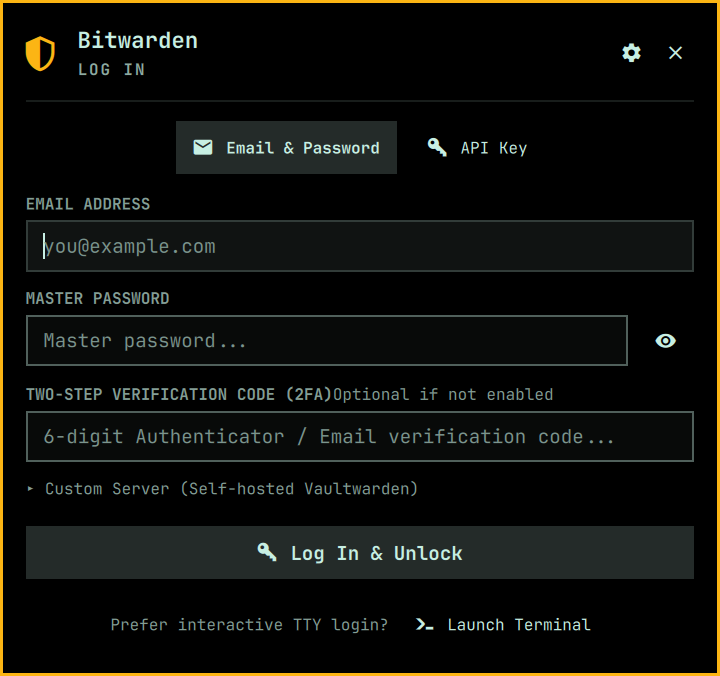
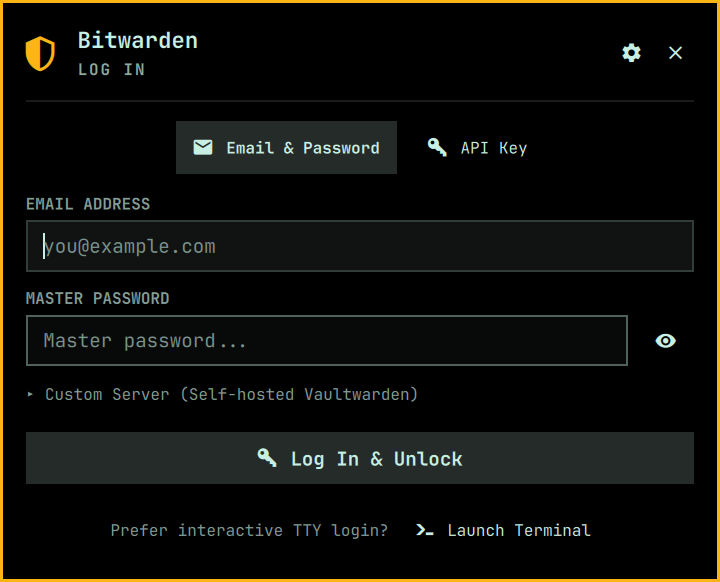
fix: reveal MFA prompt after credential login
Recognize Bitwarden CLI 2026.2.0 standalone code-required challenges and present verification as a second stage.

Fixes #2

diff --git a/Panel.qml b/Panel.qml
@@ -672,6 +672,18 @@ Panel {
     if (loginProc.running) loginProc.running = false
   }
 
+  function resetEmailLoginSecondFactor() {
+    show2faField = false
+    login2faCode = ""
+  }
+
+  function emailLoginButtonText() {
+    if (logoutCleanupFailed) return "Retry Logout Cleanup"
+    if (logoutPending) return "Finishing logout..."
+    if (isLoading) return show2faField ? "Verifying..." : "Logging in..."
+    return show2faField ? "Verify & Unlock" : "Log In & Unlock"
+  }
+
   function prepareEmailLogin() {
     if (logoutPending || !opened || status !== "unauthenticated" || loginMethod !== "email" || isLoading) return
     var email = String(loginEmail || "").trim()
@@ -723,6 +735,7 @@ Panel {
     loginClientId = ""
     loginClientSecret = ""
     login2faCode = ""
+    show2faField = false
     pendingUnlockPassword = ""
     pendingUnlockFrom = ""
     authPasswordWriteValue = ""
@@ -786,6 +799,11 @@ Panel {
         errorMessage = "Master password is required"
         return
       }
+      if (show2faField && !String(login2faCode || "").trim()) {
+        errorMessage = "Two-step verification code is required"
+        Qt.callLater(function() { code2faField.forceActiveFocus() })
+        return
+      }
 
       isLoading = true
       var signature = emailLoginSignature()
@@ -842,10 +860,12 @@ Panel {
     var out = String(stdoutText || "").trim()
     var err = String(stderrText || "").trim()
 
-    var combined = (err + " " + out).toLowerCase()
-    if (combined.indexOf("two-step") !== -1 || combined.indexOf("verification") !== -1 || combined.indexOf("twofactor") !== -1 || combined.indexOf("2fa") !== -1 || combined.indexOf("invalid_grant") !== -1 || combined.indexOf("code") !== -1) {
+    if (Model.loginNeedsSecondFactor(out, err)) {
+      var secondFactorWasVisible = show2faField
       show2faField = true
-      errorMessage = "Two-step verification code required or incorrect. Please enter your 6-digit code below."
+      errorMessage = secondFactorWasVisible
+        ? "That two-step verification code was not accepted. Please try again."
+        : "Two-step verification is required. Enter your code to continue."
       Qt.callLater(function() { code2faField.forceActiveFocus() })
       return
     }
@@ -2053,6 +2073,7 @@ Panel {
     loginClientId = ""
     loginClientSecret = ""
     login2faCode = ""
+    show2faField = false
     isUnlocking = false
     unlockSubmitted = false
     if (!s) {
@@ -2209,6 +2230,7 @@ Panel {
     sendFormPassword = ""
     loginPassword = ""
     login2faCode = ""
+    show2faField = false
     loginClientId = ""
     loginClientSecret = ""
     pinEntry = ""
@@ -4345,7 +4367,9 @@ Panel {
           && root.currentScreen !== "pin"
           && root.currentScreen !== "fingerprint")
         ? keyCatcher
-        : (root.status === "unauthenticated" ? emailField : passField))
+        : (root.status === "unauthenticated"
+          ? (root.show2faField ? code2faField : emailField)
+          : passField))
     contentWidth: panel.fittedContentWidth(Style.space(450))
     contentHeight: panel.fittedContentHeight(mainColumn.implicitHeight, Style.space(640) + root.filterDrawerHeight)
 
@@ -6147,6 +6171,7 @@ Panel {
               fontSize: Style.font.caption
               onClicked: {
                 root.invalidateEmailLoginPrewarm()
+                root.resetEmailLoginSecondFactor()
                 root.loginMethod = "email"
               }
             }
@@ -6159,6 +6184,7 @@ Panel {
               fontSize: Style.font.caption
               onClicked: {
                 root.invalidateEmailLoginPrewarm()
+                root.resetEmailLoginSecondFactor()
                 root.loginMethod = "apikey"
               }
             }
@@ -6171,6 +6197,7 @@ Panel {
             spacing: Style.space(10)
 
             Column {
+              visible: !root.show2faField
               width: parent.width
               spacing: Style.space(3)
               Text { textFormat: Text.PlainText; text: "EMAIL ADDRESS"; color: root.dim; font.family: root.fontFamily; font.pixelSize: Style.font.caption; font.bold: true }
@@ -6179,8 +6206,10 @@ Panel {
                 width: parent.width
                 placeholderText: "you@example.com"
                 text: root.loginEmail
-                onTextChanged: {
+                onTextChanged: root.loginEmail = text
+                onTextEdited: {
                   root.loginEmail = text
+                  root.resetEmailLoginSecondFactor()
                   root.invalidateEmailLoginPrewarm()
                 }
                 onAccepted: loginPassField.forceActiveFocus()
@@ -6188,6 +6217,7 @@ Panel {
             }
 
             Column {
+              visible: !root.show2faField
               width: parent.width
               spacing: Style.space(3)
               Text { textFormat: Text.PlainText; text: "MASTER PASSWORD"; color: root.dim; font.family: root.fontFamily; font.pixelSize: Style.font.caption; font.bold: true }
@@ -6201,10 +6231,17 @@ Panel {
                   password: !eyeBtnLogin.revealed
                   text: root.loginPassword
                   onTextChanged: root.loginPassword = text
+                  onTextEdited: {
+                    root.loginPassword = text
+                    if (root.show2faField) {
+                      root.resetEmailLoginSecondFactor()
+                      root.invalidateEmailLoginPrewarm()
+                    }
+                  }
                   onActiveFocusChanged: {
                     if (activeFocus) root.prepareEmailLogin()
                   }
-                  onAccepted: code2faField.forceActiveFocus()
+                  onAccepted: root.show2faField ? code2faField.forceActiveFocus() : root.submitLogin()
                 }
                 Button {
                   id: eyeBtnLogin
@@ -6217,29 +6254,19 @@ Panel {
               }
             }
 
-            // 2FA Field (Always visible)
+            // Bitwarden tells us whether this account needs a second factor.
             Column {
+              visible: root.show2faField
               width: parent.width
               spacing: Style.space(3)
 
-              Row {
-                width: parent.width
-                Text {
-                  textFormat: Text.PlainText
-                  text: "TWO-STEP VERIFICATION CODE (2FA)"
-                  color: root.show2faField ? Color.accent : root.dim
-                  font.family: root.fontFamily
-                  font.pixelSize: Style.font.caption
-                  font.bold: true
-                }
-                Item { Layout.fillWidth: true }
-                Text {
-                  textFormat: Text.PlainText
-                  text: "Optional if not enabled"
-                  color: root.dim
-                  font.family: root.fontFamily
-                  font.pixelSize: Style.font.caption
-                }
+              Text {
+                textFormat: Text.PlainText
+                text: "TWO-STEP VERIFICATION CODE (2FA)"
+                color: Color.accent
+                font.family: root.fontFamily
+                font.pixelSize: Style.font.caption
+                font.bold: true
               }
 
               TextField {
@@ -6253,10 +6280,24 @@ Panel {
                 }
                 onAccepted: root.submitLogin()
               }
+
+              Button {
+                text: "Back to credentials"
+                iconText: ""
+                fontFamily: root.fontFamily
+                fontSize: Style.font.caption
+                onClicked: {
+                  root.errorMessage = ""
+                  root.resetEmailLoginSecondFactor()
+                  root.invalidateEmailLoginPrewarm()
+                  Qt.callLater(function() { loginPassField.forceActiveFocus() })
+                }
+              }
             }
 
             // Custom Server URL (collapsible)
             Column {
+              visible: !root.show2faField
               width: parent.width
               spacing: Style.space(4)
 
@@ -6282,8 +6323,10 @@ Panel {
                 width: parent.width
                 placeholderText: "https://vault.example.com"
                 text: root.loginServerUrl
-                onTextChanged: {
+                onTextChanged: root.loginServerUrl = text
+                onTextEdited: {
                   root.loginServerUrl = text
+                  root.resetEmailLoginSecondFactor()
                   root.invalidateEmailLoginPrewarm()
                 }
               }
@@ -6291,7 +6334,7 @@ Panel {
 
             Button {
               width: parent.width
-              text: root.logoutCleanupFailed ? "Retry Logout Cleanup" : (root.logoutPending ? "Finishing logout..." : (root.isLoading ? "Logging in..." : "Log In & Unlock"))
+              text: root.emailLoginButtonText()
               iconText: root.logoutCleanupFailed ? "" : ((root.logoutPending || root.isLoading) ? "" : "")
               iconSpinning: !root.logoutCleanupFailed && (root.logoutPending || root.isLoading)
               selected: true

diff --git a/tests/auth.test.js b/tests/auth.test.js
@@ -22,6 +22,7 @@ new Function("exports", fs.readFileSync(path.join(__dirname, "..", "BitwardenMod
   exports.clientIdEnvVar = clientIdEnvVar
   exports.clientSecretEnvVar = clientSecretEnvVar
   exports.twoFactorCodeEnvVar = twoFactorCodeEnvVar
+  exports.loginNeedsSecondFactor = typeof loginNeedsSecondFactor === "function" ? loginNeedsSecondFactor : null
   exports.noInteractionEnvVar = noInteractionEnvVar
   exports.sessionEnvVar = sessionEnvVar
   exports.extractSessionToken = extractSessionToken
@@ -43,6 +44,18 @@ const CLIENT_ID = "user.11111111-2222-3333-4444-555555555555"
 const CLIENT_SECRET = "sEcReTcLiEnTsTrInG"
 const CODE = "249213"
 const SERVER = "https://vault.example.com"
+
+check("only explicit Bitwarden second-factor challenges reveal the follow-up prompt",
+  Model.loginNeedsSecondFactor
+    && Model.loginNeedsSecondFactor("", "Two factor required.")
+    && Model.loginNeedsSecondFactor("", "Two-step token is invalid. Try again.")
+    && Model.loginNeedsSecondFactor("", "Verification code required")
+    && !Model.loginNeedsSecondFactor("", "Response status code does not indicate success: 401")
+    && !Model.loginNeedsSecondFactor("", "invalid_grant"),
+  "generic status codes or invalid_grant must not be treated as MFA")
+check("Bitwarden CLI 2026.2.0's standalone required-code error reveals the follow-up prompt",
+  Model.loginNeedsSecondFactor && Model.loginNeedsSecondFactor("", "Code is required."),
+  "Code is required. must be treated as a login verification challenge")
 
 // Everything a builder could conceivably interpolate, flattened to one string.
 const flat = (cmd) => cmd.join(" ")
@@ -352,6 +365,43 @@ const loginEnv = bodyOf("loginProcessEnv")
 const unlockSuccess = bodyOf("onUnlockSuccess")
 const pinResult = bodyOf("onPinUnlockResult")
 const fingerprintResult = bodyOf("onFingerprintPasswordRetrieved")
+const submitLogin = bodyOf("submitLogin")
+const loginOutput = bodyOf("onLoginOutput")
+const abandonAuth = bodyOf("abandonAuthSecrets")
+const resetSecondFactor = bodyOf("resetEmailLoginSecondFactor")
+const emailLoginUi = panelSrc.slice(panelSrc.indexOf("// METHOD A: Email & Password"),
+  panelSrc.indexOf("// METHOD B: API Key"))
+
+// Email/password login is deliberately two-stage. Asking every user for a
+// second factor up front makes an optional challenge look mandatory and
+// collects a code before Bitwarden has said it needs one.
+check("the email login initially hides the second-factor prompt",
+  /Column\s*\{\s*visible:\s*root\.show2faField[\s\S]{0,420}TWO-STEP VERIFICATION CODE/.test(emailLoginUi),
+  emailLoginUi)
+check("the second-factor stage replaces the credential controls instead of overflowing below them",
+  (emailLoginUi.match(/visible:\s*!root\.show2faField/g) || []).length >= 3,
+  emailLoginUi)
+check("only deliberate credential edits can return MFA login to the first stage",
+  /id:\s*emailField[\s\S]{0,700}onTextEdited:[\s\S]{0,300}resetEmailLoginSecondFactor\(\)/.test(emailLoginUi)
+    && /id:\s*loginPassField[\s\S]{0,900}onTextEdited:\s*\{[\s\S]{0,180}if\s*\(root\.show2faField\)[\s\S]{0,180}resetEmailLoginSecondFactor\(\)/.test(emailLoginUi)
+    && /id:\s*loginPassField[\s\S]{0,500}onTextChanged:\s*root\.loginPassword\s*=\s*text/.test(emailLoginUi),
+  emailLoginUi)
+check("Enter on the password submits the first stage, then advances to the revealed code field",
+  /id:\s*loginPassField[\s\S]{0,1200}onAccepted:\s*root\.show2faField\s*\?\s*code2faField\.forceActiveFocus\(\)\s*:\s*root\.submitLogin\(\)/.test(emailLoginUi),
+  emailLoginUi)
+check("the second stage cannot resubmit without a verification code",
+  /show2faField[\s\S]{0,180}login2faCode[\s\S]{0,220}code2faField\.forceActiveFocus\(\)[\s\S]{0,80}return/.test(submitLogin),
+  submitLogin)
+check("a Bitwarden second-factor challenge reveals and focuses the code field",
+  /show2faField\s*=\s*true/.test(loginOutput)
+    && /code2faField\.forceActiveFocus\(\)/.test(loginOutput),
+  loginOutput)
+check("restarting email login clears both the second-factor stage and its code",
+  /show2faField\s*=\s*false/.test(resetSecondFactor)
+    && /login2faCode\s*=\s*""/.test(resetSecondFactor),
+  resetSecondFactor)
+check("abandoning credentials returns the next login to its first stage",
+  /show2faField\s*=\s*false/.test(abandonAuth), abandonAuth)
 
 check("API credentials are not materialized in the process environment before submission",
   /if\s*\(\s*!loginSubmitted\s*\)\s*return\s+authEnv\(\s*""\s*,\s*""\s*,\s*""\s*,\s*""\s*\)/.test(loginEnv)

diff --git a/BitwardenModel.js b/BitwardenModel.js
@@ -427,6 +427,12 @@ function emailLoginPrewarmCommand(email, hasCode, serverUrl) {
   return supervisedAuthCommand("login", command)
 }
 
+function loginNeedsSecondFactor(stdoutText, stderrText) {
+  var combined = (String(stderrText || "") + "\n" + String(stdoutText || "")).toLowerCase()
+  return /(?:two[ _-]?(?:step|factor)|2fa|verification[ _-]?code)/.test(combined)
+    || /(?:^|[\r\n])\s*code\s+is\s+required[.!]?\s*(?=$|[\r\n])/.test(combined)
+}
+
 // The password remains in BW_PASSWORD, inherited only by this short-lived
 // writer. The nested shell script is a literal in argv (it contains the
 // variable name, not its value), and timeout prevents a dead reader from

diff --git a/README.md b/README.md
@@ -3,7 +3,7 @@
 A modern, fast, and feature-rich Bitwarden password manager plugin for the **Omarchy** shell environment and **Hyprland** desktop.
 
 [![License: MIT](https://img.shields.io/badge/license-MIT-blue.svg)](LICENSE)
-[![Version](https://img.shields.io/badge/version-1.3.0-green.svg)](manifest.json)
+[![Version](https://img.shields.io/badge/version-1.3.1-green.svg)](manifest.json)
 [![Platform: Omarchy](https://img.shields.io/badge/platform-Omarchy%20%2F%20Hyprland-7c3aed.svg)](https://omarchy.org/)
 [![Requires: Bitwarden CLI](https://img.shields.io/badge/requires-bw%20CLI-175ddc.svg)](https://bitwarden.com/help/cli/)
 
@@ -23,7 +23,7 @@ Every screenshot below is captured against a **fixture vault** of made-up entrie
 | Log in | Vault list | Filter drawer |
 | :---: | :---: | :---: |
 | ![Login](docs/screenshots/06-login.png) | ![Vault list](docs/screenshots/01-vault-list.png) | ![Folder drawer](docs/screenshots/02-folder-drawer.png) |
-| Email + password or API key, 2FA, custom server, or hand off to a terminal | Folders, organizations, favourites and TOTP at a glance | Folders, Organizations and Types open as a drawer |
+| Email + password first, then 2FA only when Bitwarden requests it; API key, custom server, and terminal handoff are also available | Folders, organizations, favourites and TOTP at a glance | Folders, Organizations and Types open as a drawer |
 
 | Generator | Bitwarden Send | Settings |
 | :---: | :---: | :---: |
@@ -45,7 +45,7 @@ Every screenshot below is captured against a **fixture vault** of made-up entrie
 
 - **Authentication & Secure Keyring Storage**:
   - Direct Master Password unlock.
-  - Interactive login with Email + Password / 2FA (Authenticator App, Email, Duo, YubiKey) or API Key credentials (`BW_CLIENTID` / `BW_CLIENTSECRET`).
+  - Interactive login starts with Email + Password and reveals the 2FA prompt only when Bitwarden requires it (Authenticator App or Email); API Key credentials (`BW_CLIENTID` / `BW_CLIENTSECRET`) remain available as a separate method.
   - **Custom Server Support**: Works seamlessly with official Bitwarden servers and self-hosted Vaultwarden instances.
   - **Terminal login fallback**: when the built-in form cannot cover your login method -- SSO, a Duo push, a hardware key -- the login screen offers **Launch Terminal**, which runs `bw login` in a real terminal so Bitwarden's own prompts handle it.
   - That terminal hands its session straight back: it captures the key with `bw login --raw` (prompts stay on stderr, so the login is still interactive) and writes it to `$XDG_RUNTIME_DIR/qs-bitwarden-cli/session-handoff`, mode `600`, in a directory created `700` before the file exists. There is no fallback path: if `XDG_RUNTIME_DIR` is somehow unset the login refuses to run rather than putting a session key anywhere a second user could have prepared. The panel reads that file once, deletes it, and comes back unlocked -- no second login just to get in. If the vault was merely locked rather than logged out, the same button unlocks instead. **It only reads it when it is expecting to.** The check runs on every status refresh, and it used to adopt whatever was at that path whether or not the panel had ever asked for a terminal login -- so anything able to write the file could hand the panel a session key at a moment of its own choosing, and the panel would take it and write it to the keyring. The runtime directory is `0700`, so that is one of your own processes rather than a stranger and it was never a privilege boundary; it was a window with no reason to be open. A key is only expected in the ten minutes after the panel itself launched a terminal, so those are the only minutes it is read in. Outside them the file is deleted unread -- not reading it is not a reason to leave a live session key lying in the runtime directory, and a login abandoned halfway leaves exactly that.

diff --git a/CHANGELOG.md b/CHANGELOG.md
@@ -1,5 +1,11 @@
 # Changelog
 
+## [1.3.1] - 2026-08-26
+
+### Fixed
+
+- Fixes #2: ask for a verification code only after Bitwarden requires one, including Bitwarden CLI 2026.2.0's standalone `Code is required.` challenge.
+
 ## [1.3.0] - 2026-08-24
 
 ### Added
